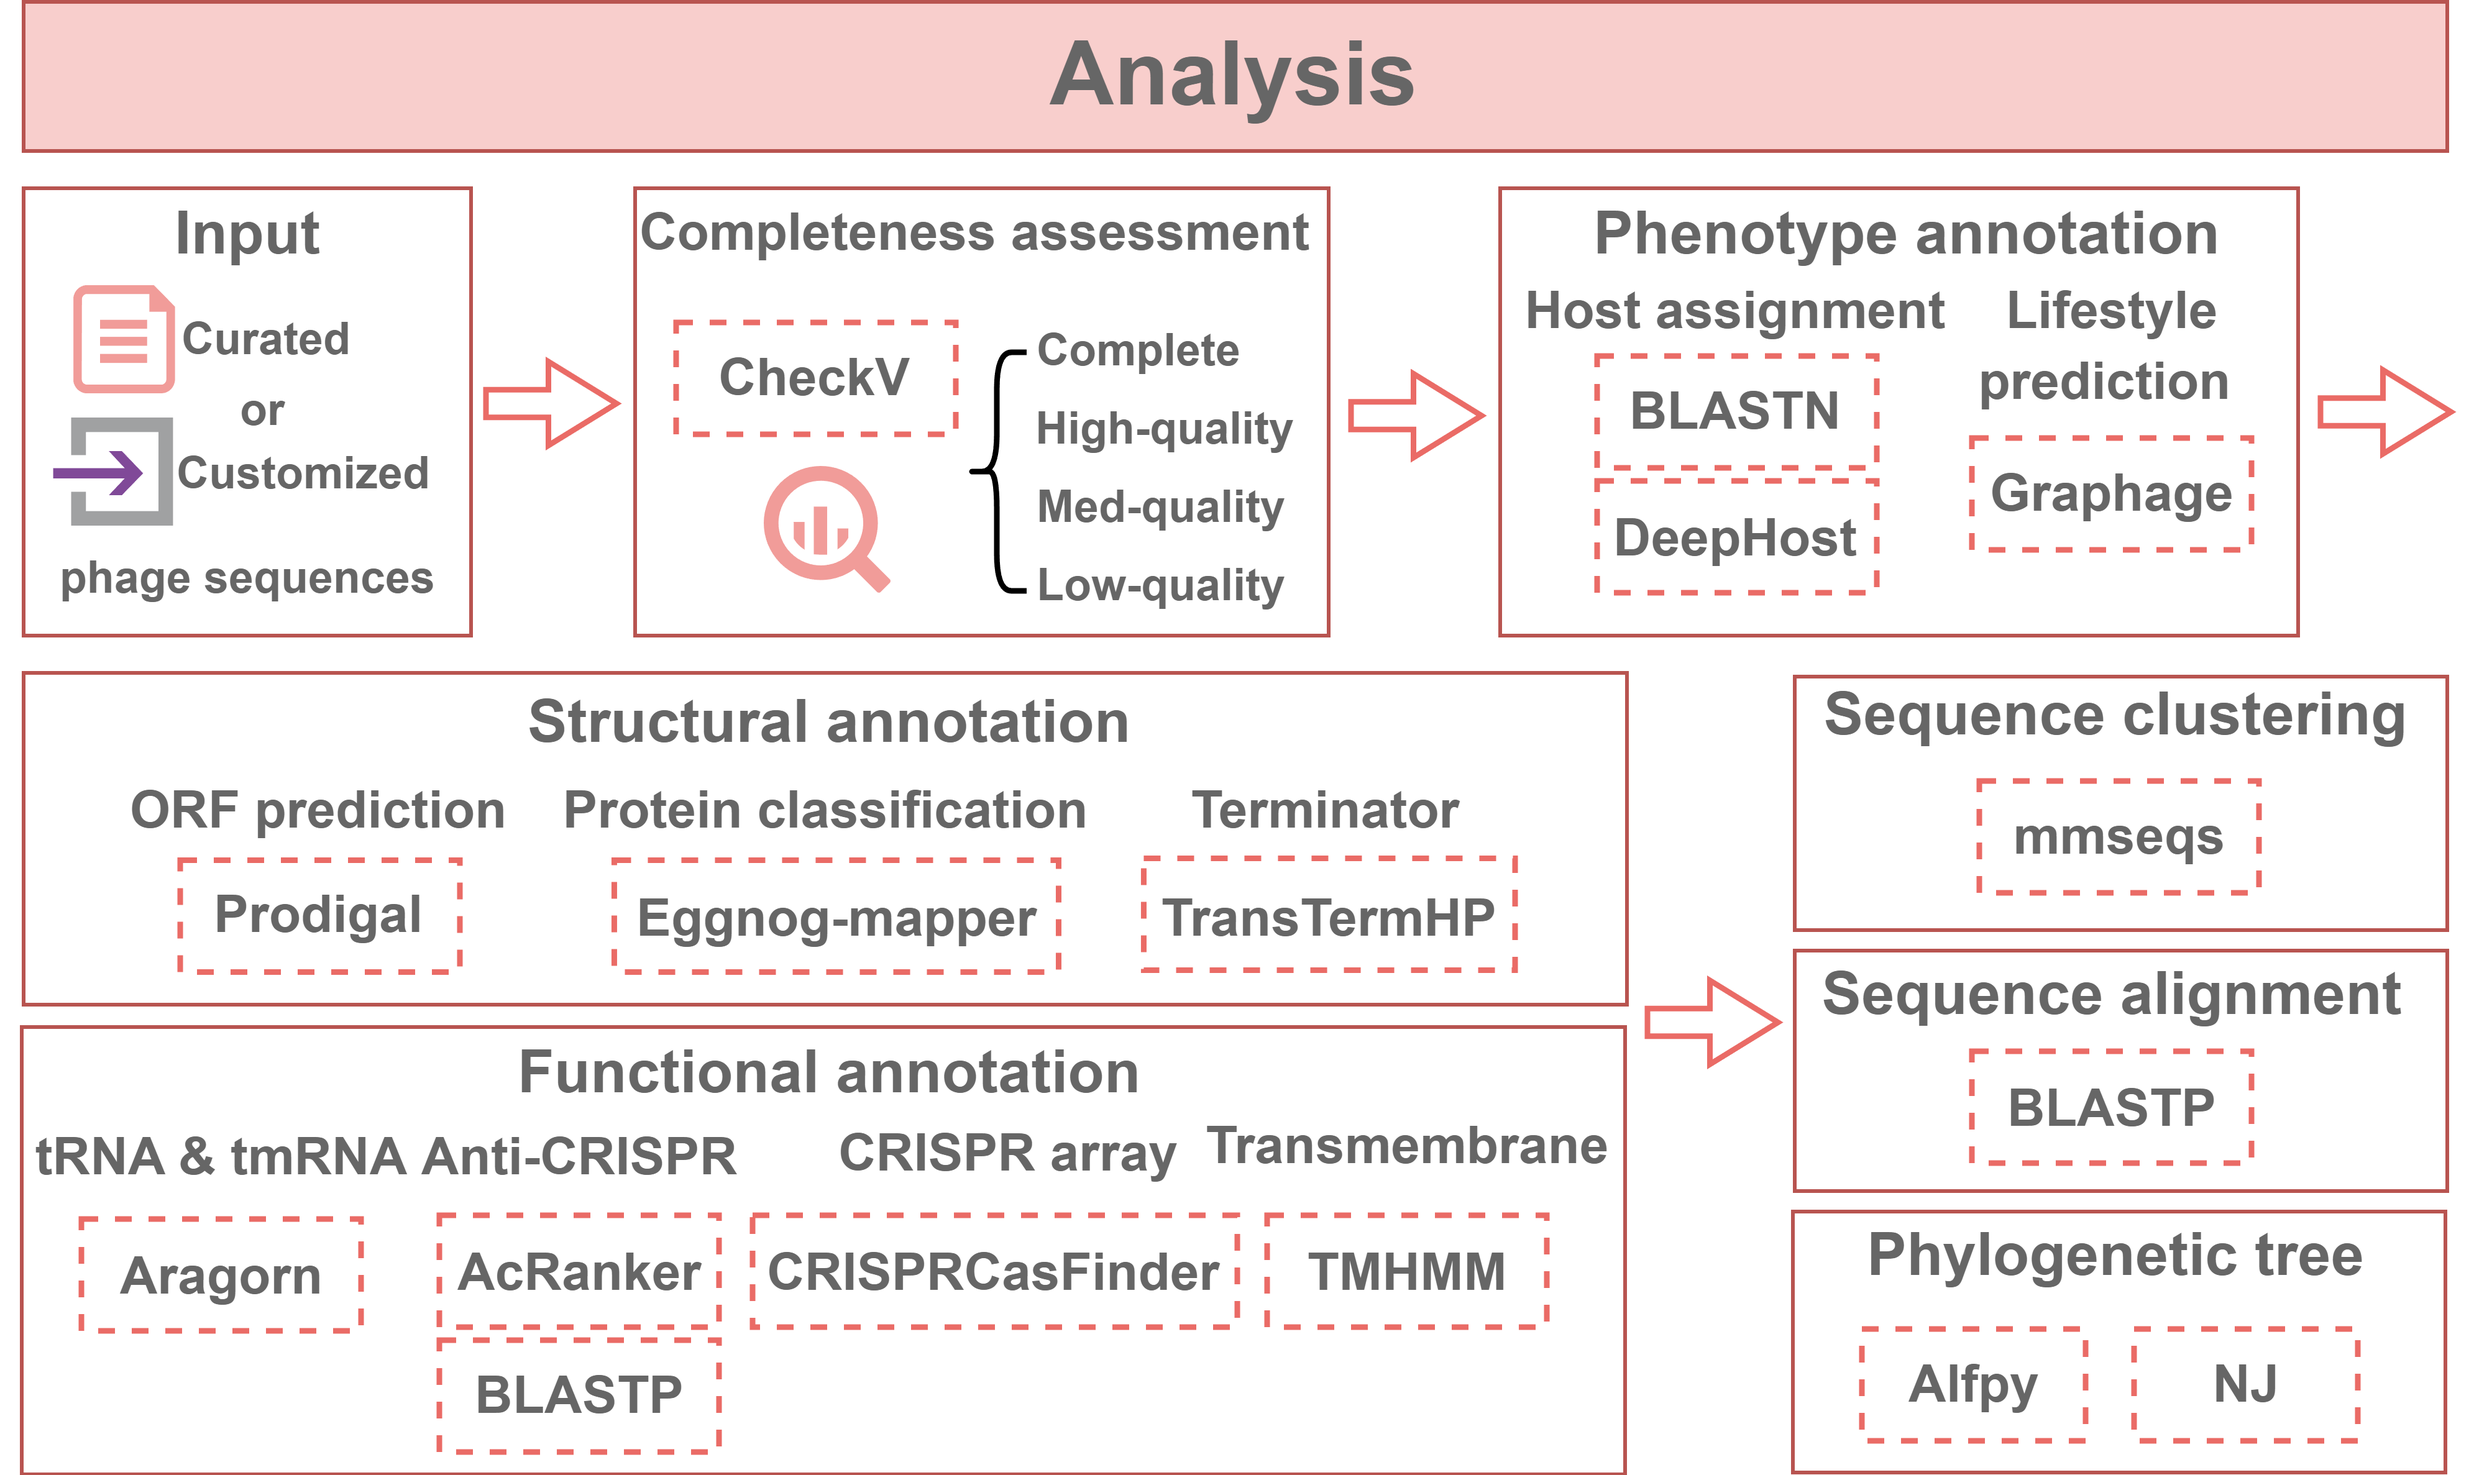
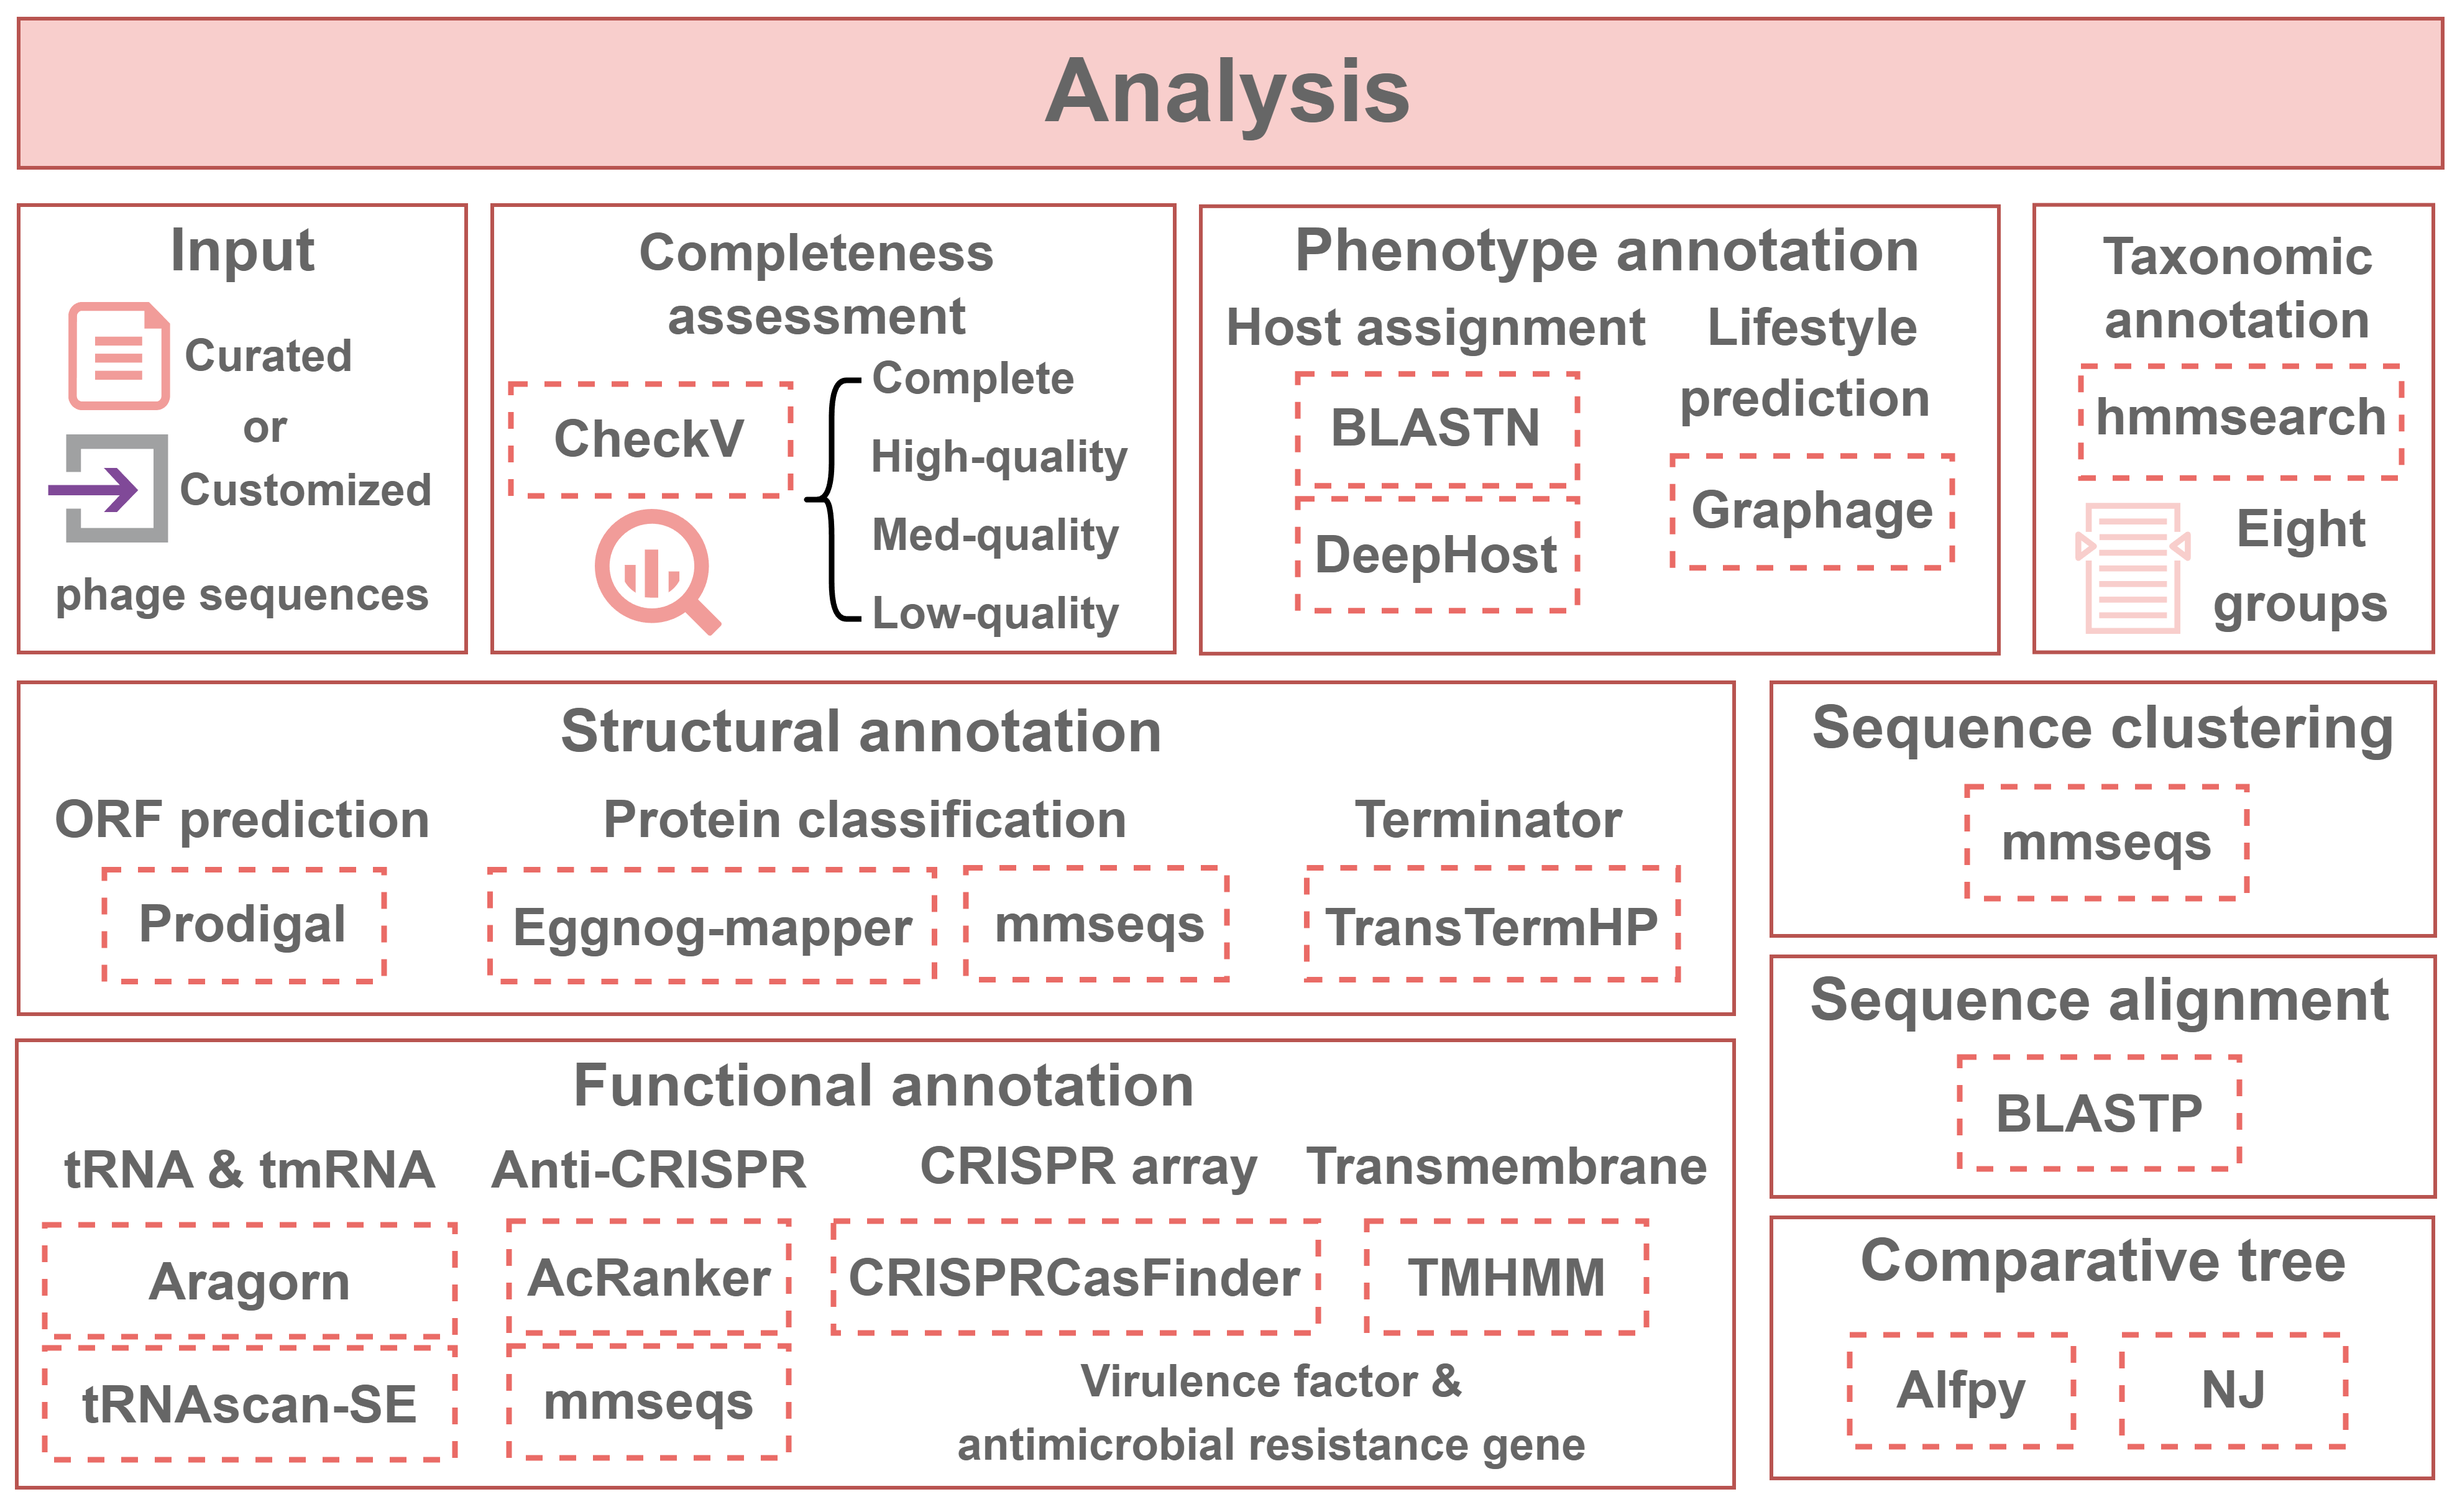
updates tutorial

Changed region(s): [[0.0, 0.0, 0.9977, 1.0], [0.6548, 0.8728, 0.6859, 0.904]]

diff --git a/Tutorial/PhageScope_tutorial.md b/Tutorial/PhageScope_tutorial.md
@@ -1,23 +1,23 @@
 # Welcome to PhageScope
 
-[PhageScope](https://phagescope.deepomics.org/) is an online bacteriophage database, including 441,637 phage sequences with comprehensive genome annotations. PhageScope incorporates automatic analysis and interactive visualization.
+[PhageScope](https://phagescope.deepomics.org/) is an online bacteriophage database, including 441,637 phage sequences with comprehensive annotations. PhageScope incorporates automatic analysis and interactive visualization.
 
 ## Database
-We have performed an exhaustive search for phage sequences across multiple public repositories (such as RefSeq, Genbank, EMBL, DDBJ) and published datasets (such as PhagesDB, GVD, GPD, MGV, TemPhD). As a result, we have gathered a dataset comprising of 441,637 phage sequences, only a tiny fraction of which have annotation information available, such as host taxonomy, lifestyle, and genetic features.
+We have performed an exhaustive search for phage sequences across multiple public repositories (such as RefSeq, Genbank, EMBL, and DDBJ) and published datasets (such as PhagesDB, GVD, GPD, MGV, and TemPhD). As a result, we have gathered a dataset comprising 441,637 phage sequences, only a tiny fraction of which have annotation information available, such as host taxonomy, lifestyle, and genetic features.
 
-To provide comprehensive and accurate annotations for the collected phage sequences, we applied thirteen state-of-the-art tools to give completeness assessment, phenotype annotation (host and lifestyle), structural annotation (ORFs, proteins, and terminators), functional annotation (tRNA & tmRNA, Anti-CRISPR protein, CRISPR array, and transmembrane proteins), and sequence comparison (clustering, alignment, and phylogenetic tree) for the phage sequences. The 441,637 phage sequences, along with their annotation information, are available in PhageScope. 
+To provide comprehensive and accurate annotations for the collected phage sequences, we applied fifteen state-of-the-art tools to give completeness assessment, phenotype annotation (host and lifestyle), structural annotation (ORFs, proteins, and terminators), taxonomic annotation, functional annotation (tRNA & tmRNA, Anti-CRISPR protein, CRISPR array, virulent factors, antimicrobial resistance genes, and transmembrane proteins), and sequence comparison (genome clustering, sequence alignment, and comparative tree) for the phage sequences. The 441,637 phage sequences, along with their annotated information, are available in PhageScope. 
 
 ![image](https://github.com/deepomicslab/PhageScope/blob/main/Figures/database.png)
 
 
 ## Analysis
-We also provide the annotation pipelines for users to analyze their customized data. Users can upload single or multiple phage sequences in fasta format and run the complete or partial annotation steps. The complete workflow includes completeness assessment, phenotype annotation, structural annotation, and functional annotation, as described above. For multiple sequences, genome comparison pipelines are provided. PhageScope platform performs automatic analysis and returns results that can be visualized and downloaded.  
+We also provide annotation pipelines for users to analyze their customized data. Users can upload single or multiple phage sequences in fasta format and run the complete or partial annotation steps. The complete workflow includes completeness assessment, phenotype annotation, structural annotation, taxonomic annotation, and functional annotation, as described above. For multiple sequences, genome comparison pipelines, including sequence clustering, sequence alignment, and comparative tree construction, are provided. PhageScope platform performs automatic analysis and returns results that can be visualized and downloaded.  
 
 ![image](https://github.com/deepomicslab/PhageScope/blob/main/Figures/analysis.png)
 
 
 ## Visualization
-Additionally, PhageScope supports interactive visualization of the curated database and customized analysis results. Specifically, PhageScope generates completeness and phenotype distribution charts, graphical annotation, multiple sequence alignment visualizations, and phylogenetic tree visualizations. All visualizations can be downloaded in high-quality publication-ready format.  
+Additionally, PhageScope supports interactive visualization of the curated database and customized analysis results. Specifically, PhageScope generates completeness and phenotype distribution charts, graphical annotation, multiple sequence alignment visualizations, and comparative tree visualizations. All visualizations can be downloaded in high-quality publication-ready format.  
 
 ![image](https://github.com/deepomicslab/PhageScope/blob/main/Figures/visualization.png)
 

diff --git a/Tutorial/DB_docs/Database_download.md b/Tutorial/DB_docs/Database_download.md
@@ -148,5 +148,5 @@ PhageScope also provides a batch download interface for users to retrieve data, 
 + ``MGV Phage GFF3 File``: Phage annotations from MGV in GFF3 format.
 + ``TemPhD Phage GFF3 File``: Phage annotations from TemPhD in GFF3 format.
 
-## Database API download
-PhageScope also allows API download indexed with ``phage_ID``, ``protein_ID``, and ``data source``.
+<p>## Database API download</p>
+<p>PhageScope also allows API download indexed with ``phage_ID``, ``protein_ID``, and ``data source``.</p>
